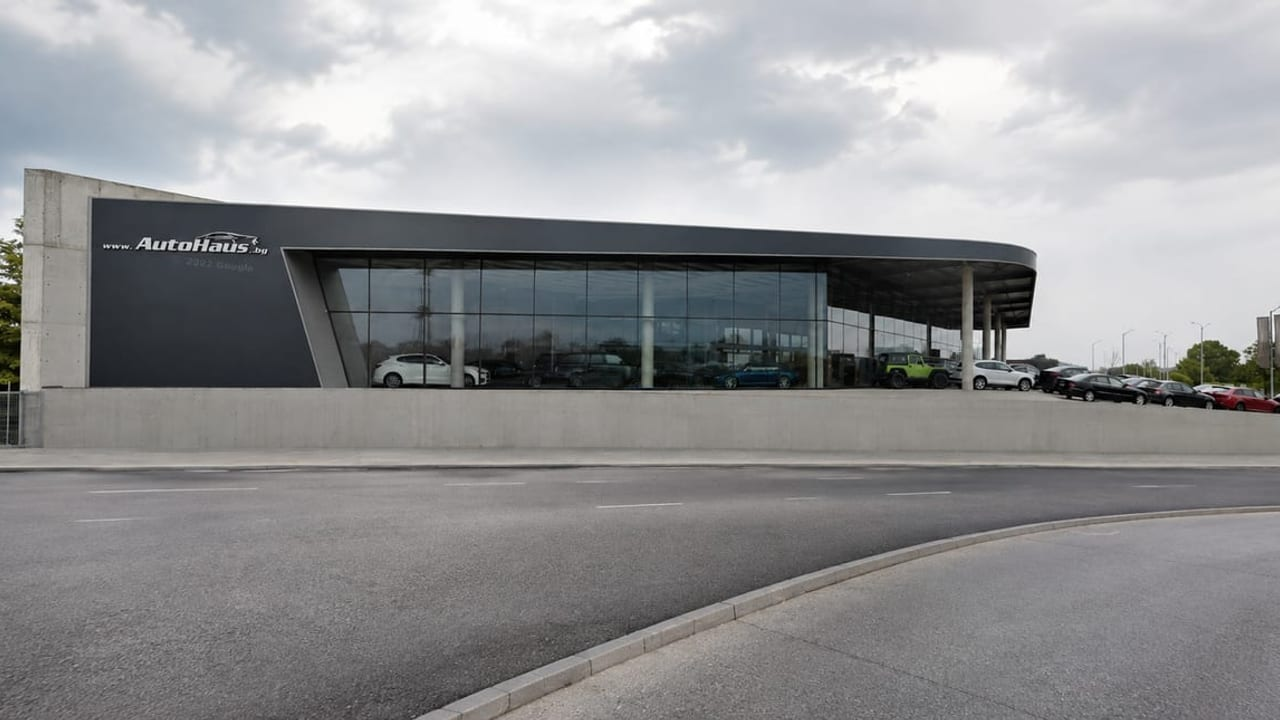
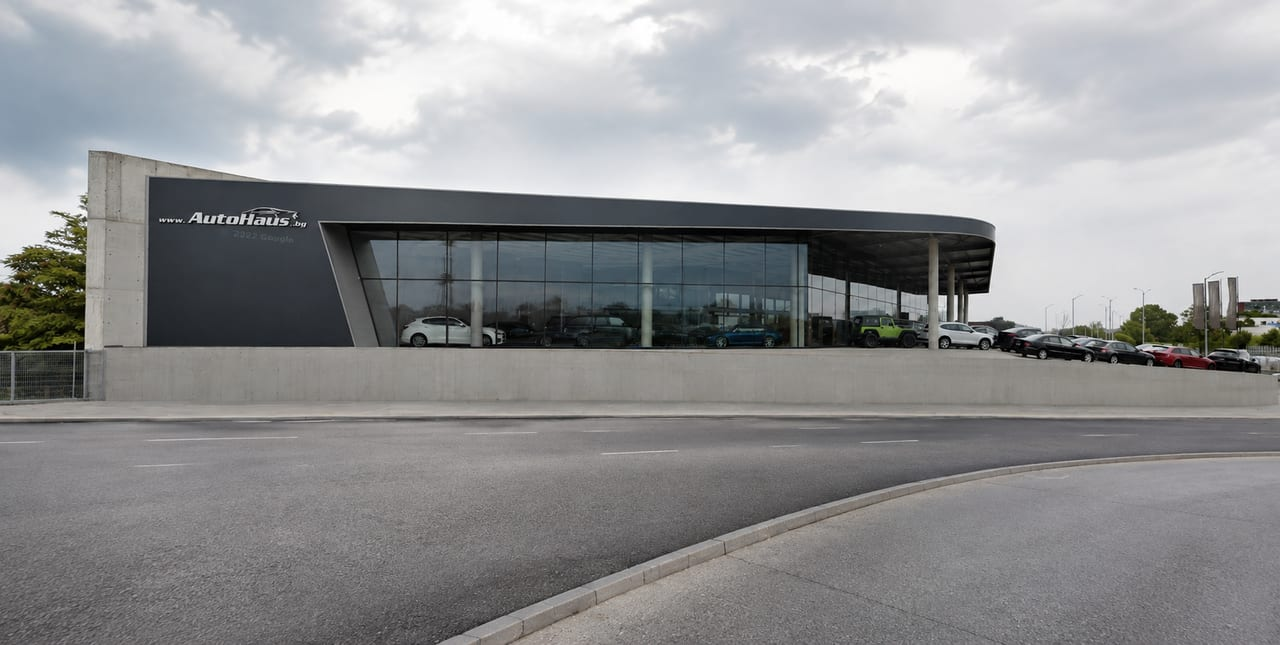
Revert "Merge pull request #30 from Nikichh1/codex/crop-hero-photo"
This reverts commit 0645f42ba8d5841edc973335bdf8eb4bbbf35466, reversing
changes made to bfdfa4582515b3899879bdba3c858af2d7f11f29.

diff --git a/index.html b/index.html
@@ -341,11 +341,11 @@
       </div>
 
       <div class="stage-item is-active" data-i="0">
-        <div class="stage-bg"><img width="320" height="180" decoding="sync" alt="" aria-hidden="true" fetchpriority="high" src="img/outside_autohaus-320.jpg"></div>
+        <div class="stage-bg"><img width="320" height="161" decoding="sync" alt="" aria-hidden="true" fetchpriority="high" src="img/outside_autohaus-320.jpg"></div>
         <div class="stage-box"><div class="stage-frame">
           <div class="stage-media">
-            <img class="stage-media-fill" width="320" height="180" decoding="async" alt="" aria-hidden="true" src="img/outside_autohaus-320.jpg">
-            <picture><source type="image/webp" srcset="img/outside_autohaus-768.webp 768w, img/outside_autohaus-1280.webp 1280w, img/outside_autohaus-1920.webp 1920w" sizes="(min-width:1920px) 88vw, (min-width:768px) 92vw, 100vw"><img width="1280" height="720" decoding="async" sizes="(min-width:1920px) 88vw, (min-width:768px) 92vw, 100vw" alt="Сградата на AutoHaus през деня" fetchpriority="high" src="img/outside_autohaus-1280.jpg" srcset="img/outside_autohaus-768.jpg 768w, img/outside_autohaus-1280.jpg 1280w, img/outside_autohaus-1920.jpg 1920w" style="object-position:20% 50%"></picture>
+            <img class="stage-media-fill" width="320" height="161" decoding="async" alt="" aria-hidden="true" src="img/outside_autohaus-320.jpg">
+            <picture><source type="image/webp" srcset="img/outside_autohaus-768.webp 768w, img/outside_autohaus-1280.webp 1280w, img/outside_autohaus-1920.webp 1920w" sizes="(min-width:1920px) 88vw, (min-width:768px) 92vw, 100vw"><img width="1280" height="645" decoding="async" sizes="(min-width:1920px) 88vw, (min-width:768px) 92vw, 100vw" alt="Сградата на AutoHaus през деня" fetchpriority="high" src="img/outside_autohaus-1280.jpg" srcset="img/outside_autohaus-768.jpg 768w, img/outside_autohaus-1280.jpg 1280w, img/outside_autohaus-1920.jpg 1920w" style="object-position:20% 50%"></picture>
             <div class="grad grad--t" aria-hidden="true"></div><div class="grad grad--b" aria-hidden="true"></div>
           </div>
           <div class="stage-content">

diff --git a/tools/public-cleanup.test.js b/tools/public-cleanup.test.js
@@ -102,7 +102,7 @@ test("first mobile hero backdrop does not restart its entrance after settling", 
   const html = fs.readFileSync(path.join(__dirname, "../index.html"), "utf8");
   const css = fs.readFileSync(path.join(__dirname, "../style.css"), "utf8");
   assert.match(html, /<link rel="preload" as="image" href="img\/outside_autohaus-320\.jpg" fetchpriority="high">/);
-  assert.match(html, /<div class="stage-bg"><img width="320" height="180" decoding="sync"/);
+  assert.match(html, /<div class="stage-bg"><img width="320" height="161" decoding="sync"/);
   assert.match(css, /@media\(max-width:767px\)\{\s*\.stage-item\[data-i="0"\] \.stage-bg\{animation:none\}/);
   assert.match(css, /\.stage:not\(\.is-settled\) \.stage-item\[data-i="0"\] \.stage-bg\{\s*transition:none;/);
   assert.match(css, /\.lo-fx \.stage-item\.is-active \.stage-bg\{opacity:1\}/);
